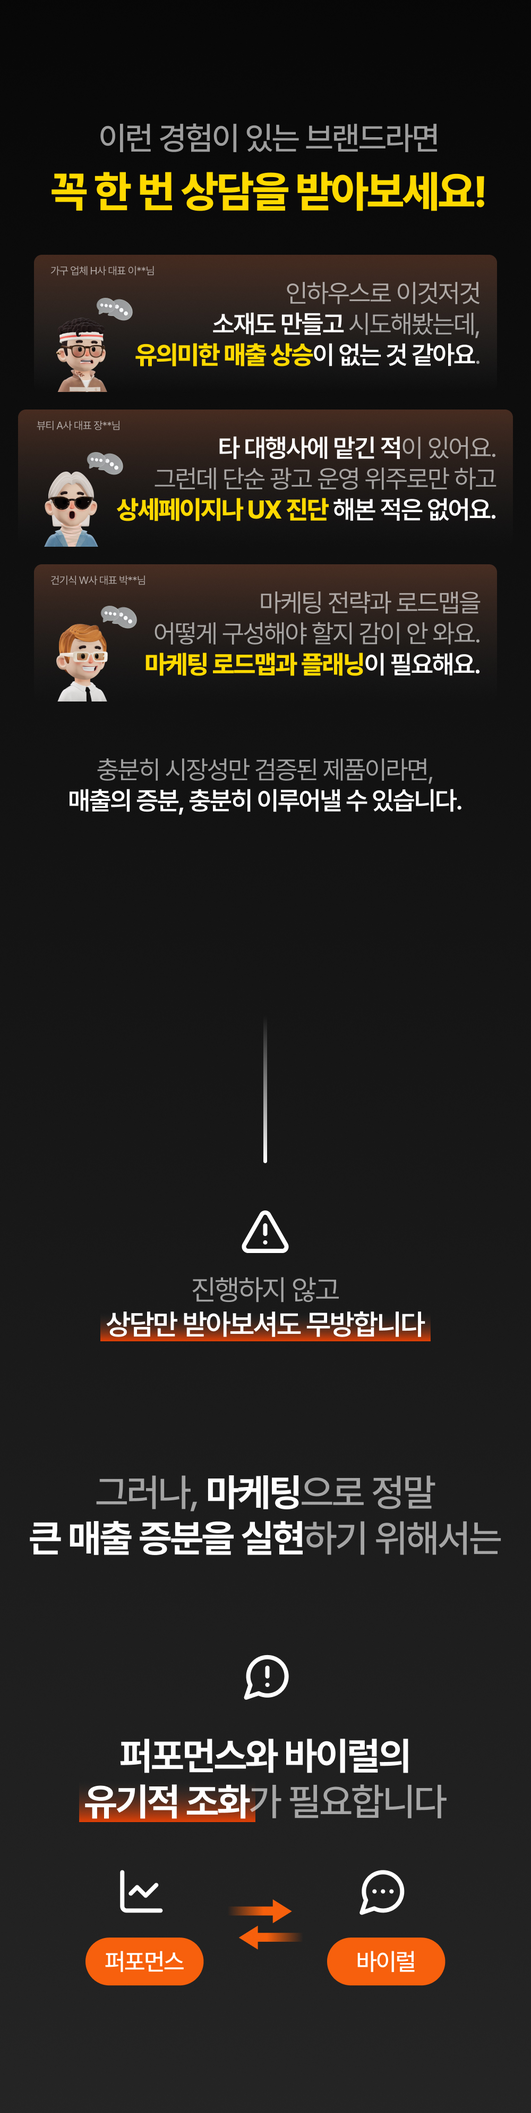
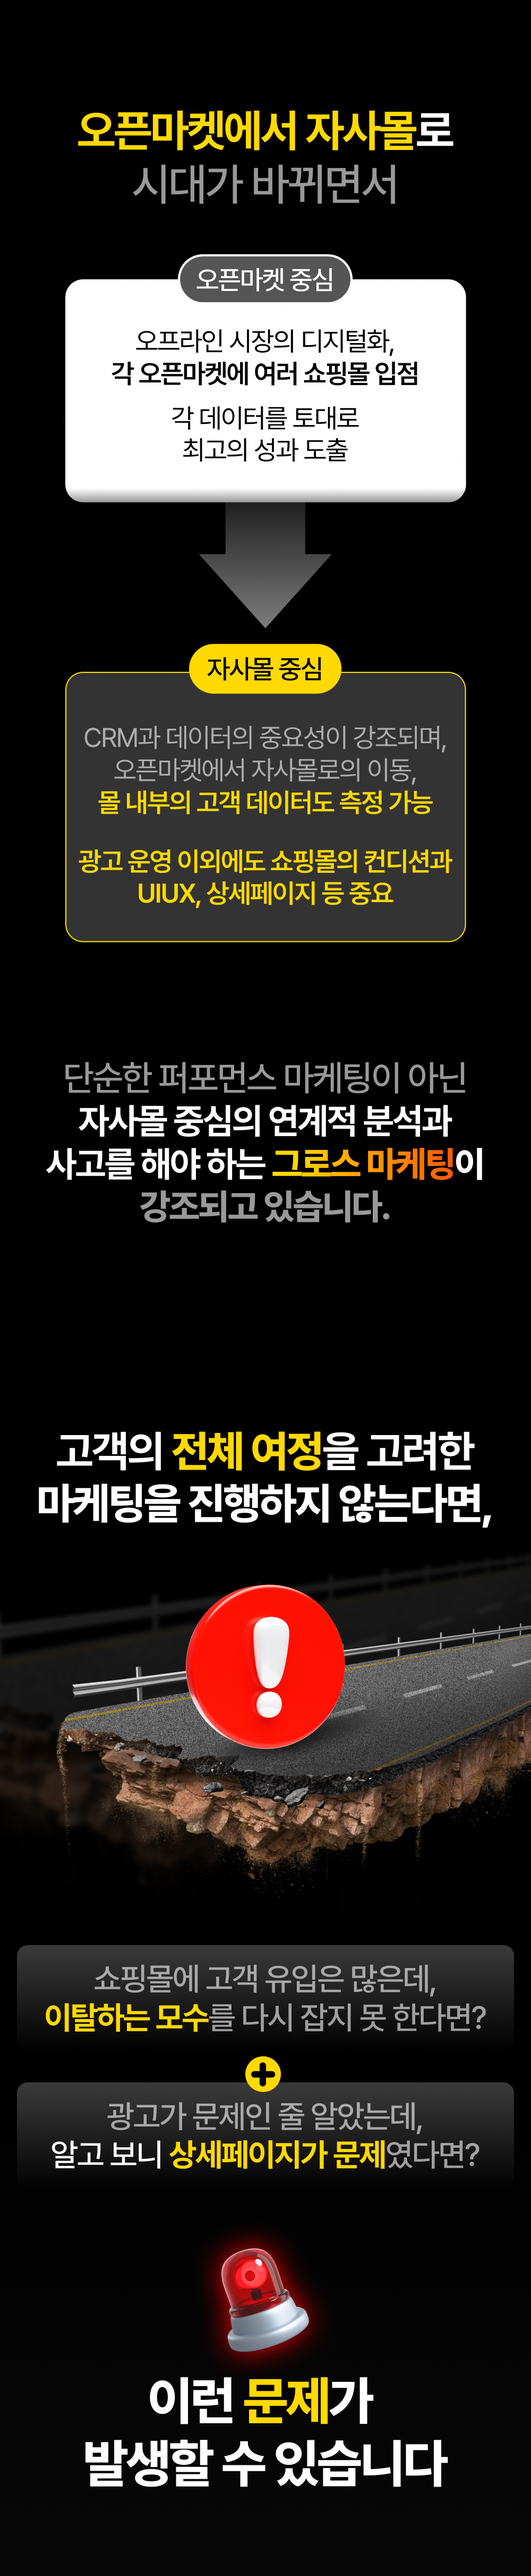
asdf

diff --git a/src/App.js b/src/App.js
@@ -1,32 +1,117 @@
 import React from 'react';
 
 function Image() {
-  const imageCount = 6;
+  const imageCount = 7;
 
   const containerStyle = {
     display: 'flex',
     flexDirection: 'column',
     alignItems: 'center',
+    marginTop: '120px', // 헤더 아래로 이미지 배치
+    margin: '0px',
   };
 
   const imageStyle = {
-    maxWidth: '1000px',
+    maxWidth: '900px',
     width: '100%',
     height: 'auto',
-    marginBottom: '0px',
+    marginBottom: '0px', // 이미지 아래 여백 제거
+    padding: '0px', // 이미지 패딩 제거
+    display: 'block', // 이미지의 기본 inline 속성을 block으로 변경
+  };
+
+  const headerContainerStyle = {
+    position: 'fixed',
+    top: 0,
+    left: '50%',
+    transform: 'translateX(-50%)',
+    maxWidth: '900px',
+    width: '100%',
+    height: '100px',
+    backgroundColor: '#222222',
+    color: '#ffffff',
+    display: 'flex',
+    alignItems: 'center',
+    justifyContent: 'space-between',
+    padding: '0 20px',
+    boxSizing: 'border-box',
+    zIndex: 1000,
+    margin: '0px',
+  };
+
+  const logoStyle = {
+    width: '100px', // 로고 이미지 높이
+    paddingLeft: '26px',
+  };
+
+  const hamburgerStyle = {
+    fontSize: '50px',
+    cursor: 'pointer',
+    color: '#515151', // 햄버거바 색깔 변경
+  };
+
+  const headerButtonStyle = {
+    backgroundColor: '#FF181C', // 버튼 배경색
+    color: '#FFFFFF', // 버튼 폰트 색상
+    padding: '10px 20px',
+    borderRadius: '97px',
+    border: 'none',
+    fontSize: '16px',
+    fontWeight: 'bold',
+    cursor: 'pointer',
+  };
+
+  const buttonStyle = {
+    position: 'absolute', // 버튼을 이미지 중앙에 배치
+    top: '92%',
+    left: '50%',
+    transform: 'translate(-50%, -50%)', // 버튼을 정확히 중앙에 배치
+    width: '80%',
+    height: '7%',
+    maxHeight: '180px',
+    backgroundColor: 'transparent', // 버튼을 투명하게 설정
+    borderRadius: '5px',
+    display: 'flex',
+    justifyContent: 'center',
+    alignItems: 'center',
+    color: '#ffffff',
+    fontSize: '16px',
+    fontWeight: 'bold',
+    cursor: 'pointer',
+  };
+
+  const handleButtonClick = () => {
+    window.location.href = 'https://tally.so/r/mZv6po';
   };
 
   return (
-    <div style={containerStyle}>
-      {[...Array(imageCount)].map((_, index) => (
+    <>
+      <header style={headerContainerStyle}>
+        <div style={hamburgerStyle}>☰</div>
         <img
-          key={index}
-          src={`/image/${index + 1}.jpg`}
-          alt={`Image ${index + 1}`}
-          style={imageStyle}
+          src="/newlogo.png" // 로고 이미지 경로
+          alt="Logo"
+          style={logoStyle}
         />
-      ))}
-    </div>
+        <button style={headerButtonStyle} onClick={handleButtonClick}>
+          신청하기
+        </button>
+      </header>
+      <div style={containerStyle}>
+        {[...Array(imageCount)].map((_, index) => (
+          <div key={index} style={{ position: 'relative', margin: '0px' }}>
+            <img
+              src={`/image/${index + 1}${index === 1 ? '.gif' : '.jpg'}`}
+              alt={`Image ${index + 1}`}
+              style={imageStyle}
+            />
+            {index === imageCount - 1 && (
+              <div style={buttonStyle} onClick={handleButtonClick} />
+            )}
+          </div>
+        ))}
+      </div>
+    </>
   );
 }
 
